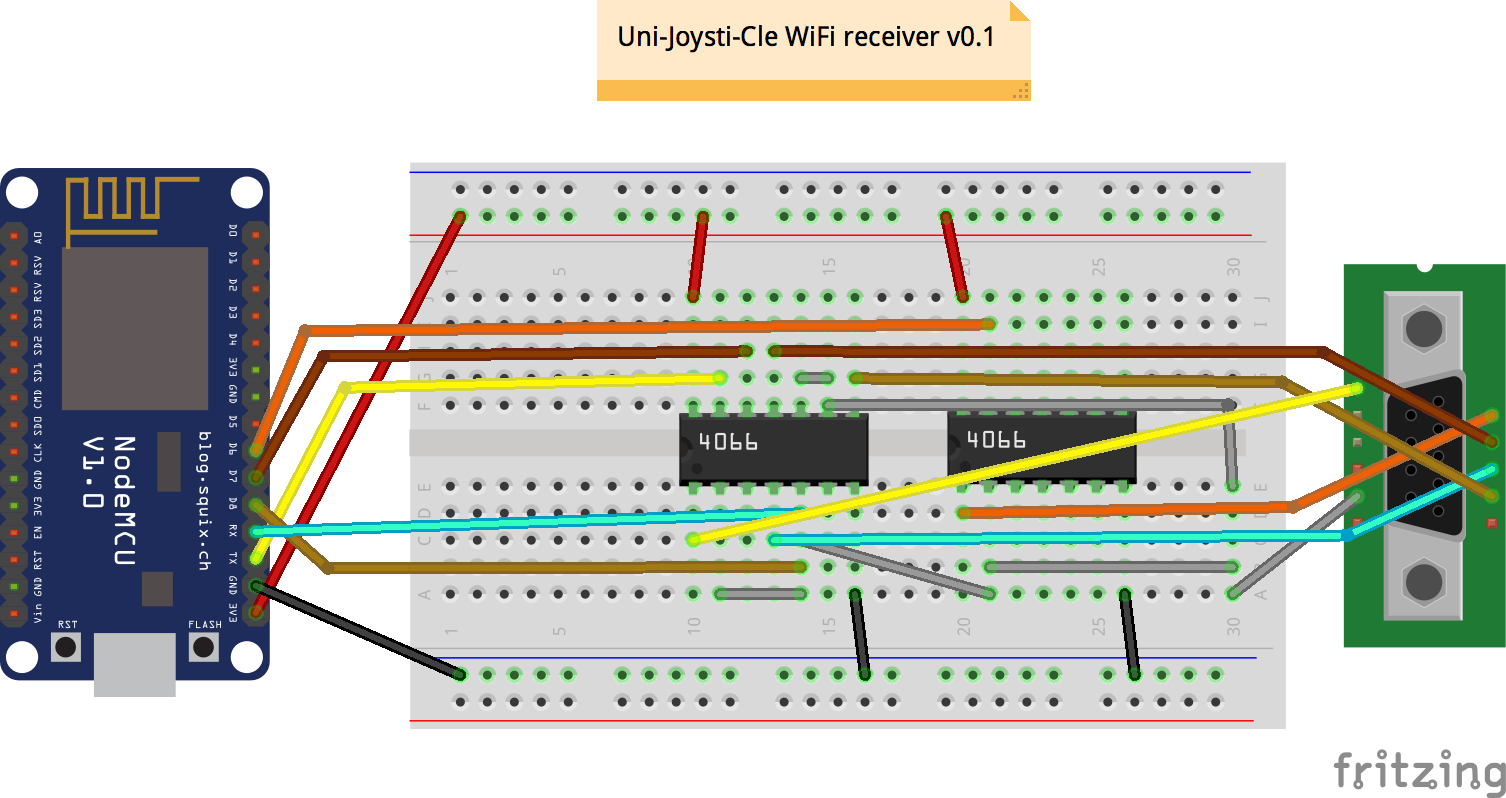
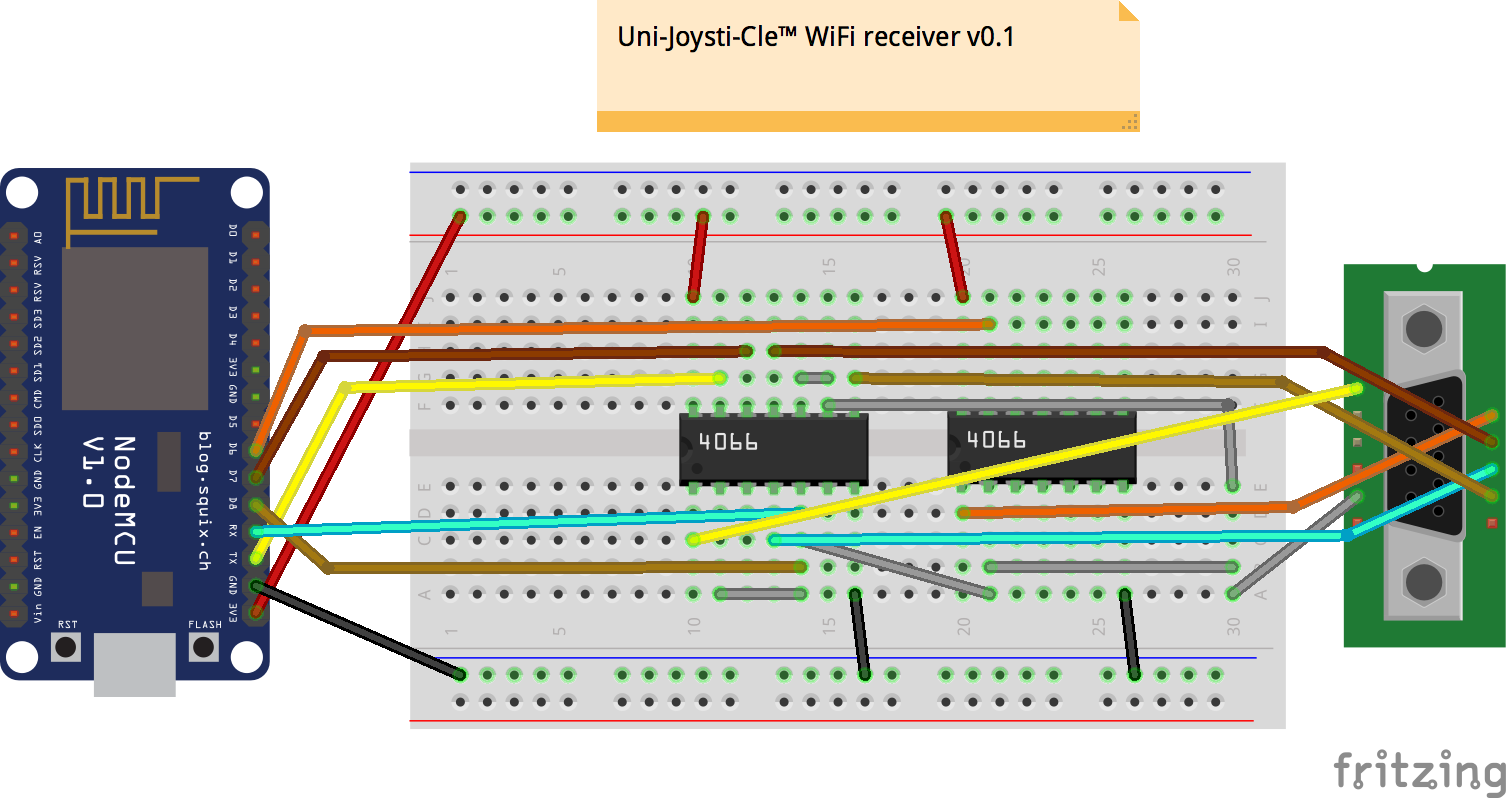
docs: adds ™ to Uni-Joysti-Cle

Changed region(s): [[0.3745, 0.0, 0.7802, 0.1805]]

diff --git a/README.md b/README.md
@@ -1,8 +1,8 @@
-# The Uni-Joysti-Cle
+# The Uni-Joysti-Cle™
 
-![The Uni-Joysti-Cle](https://lh3.googleusercontent.com/-piAi8Qz3nnQ/VwL2T8DBSZI/AAAAAAABdos/jpiz2eBrA_U1MW8mXVZVmI68zLlmJoTvACCo/s640-Ic42/logo.png)
+![The Uni-Joysti-Cle™](https://lh3.googleusercontent.com/-piAi8Qz3nnQ/VwL2T8DBSZI/AAAAAAABdos/jpiz2eBrA_U1MW8mXVZVmI68zLlmJoTvACCo/s640-Ic42/logo.png)
 
-The Uni-Joysti-Cle is a __revolutionary__ device that allows you to play [your favorite Commodore 64 video game](https://github.com/ricardoquesada/c64-the-uni-games) with a unicycle.
+The Uni-Joysti-Cle™ is a __revolutionary__ device that allows you to play [your favorite Commodore 64 video game](https://github.com/ricardoquesada/c64-the-uni-games) with a unicycle.
 
 
 This repository contains:
